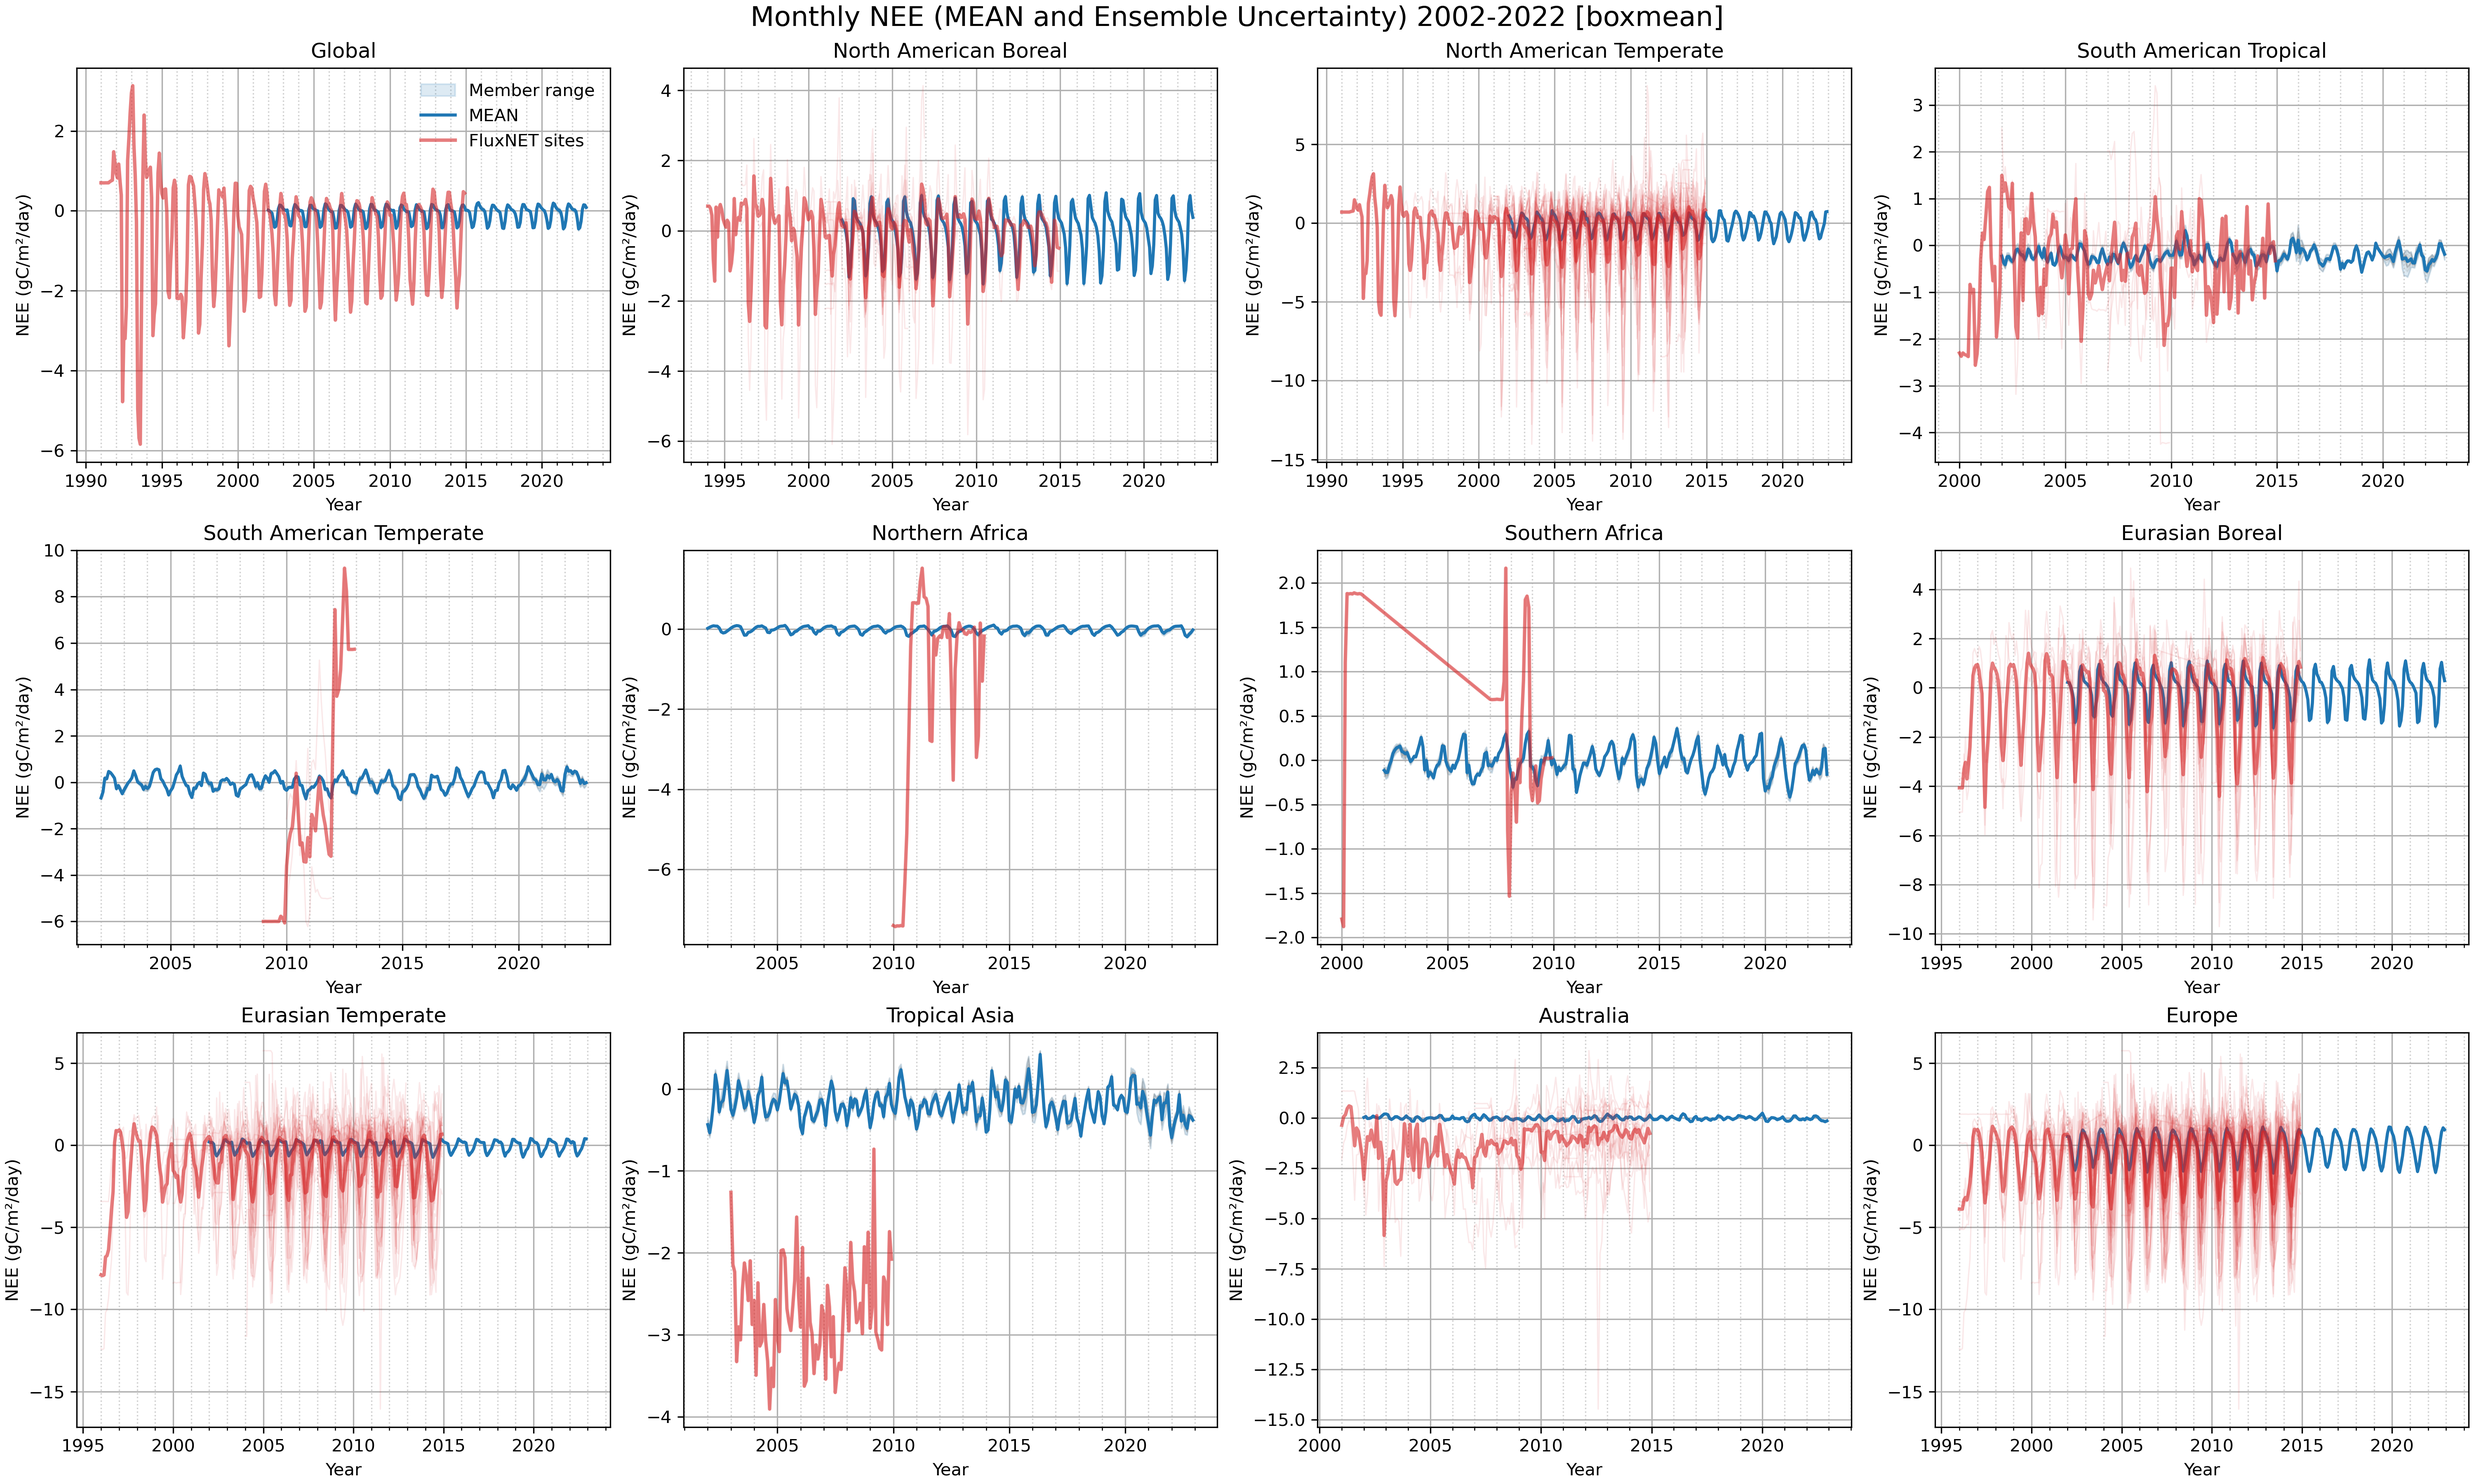
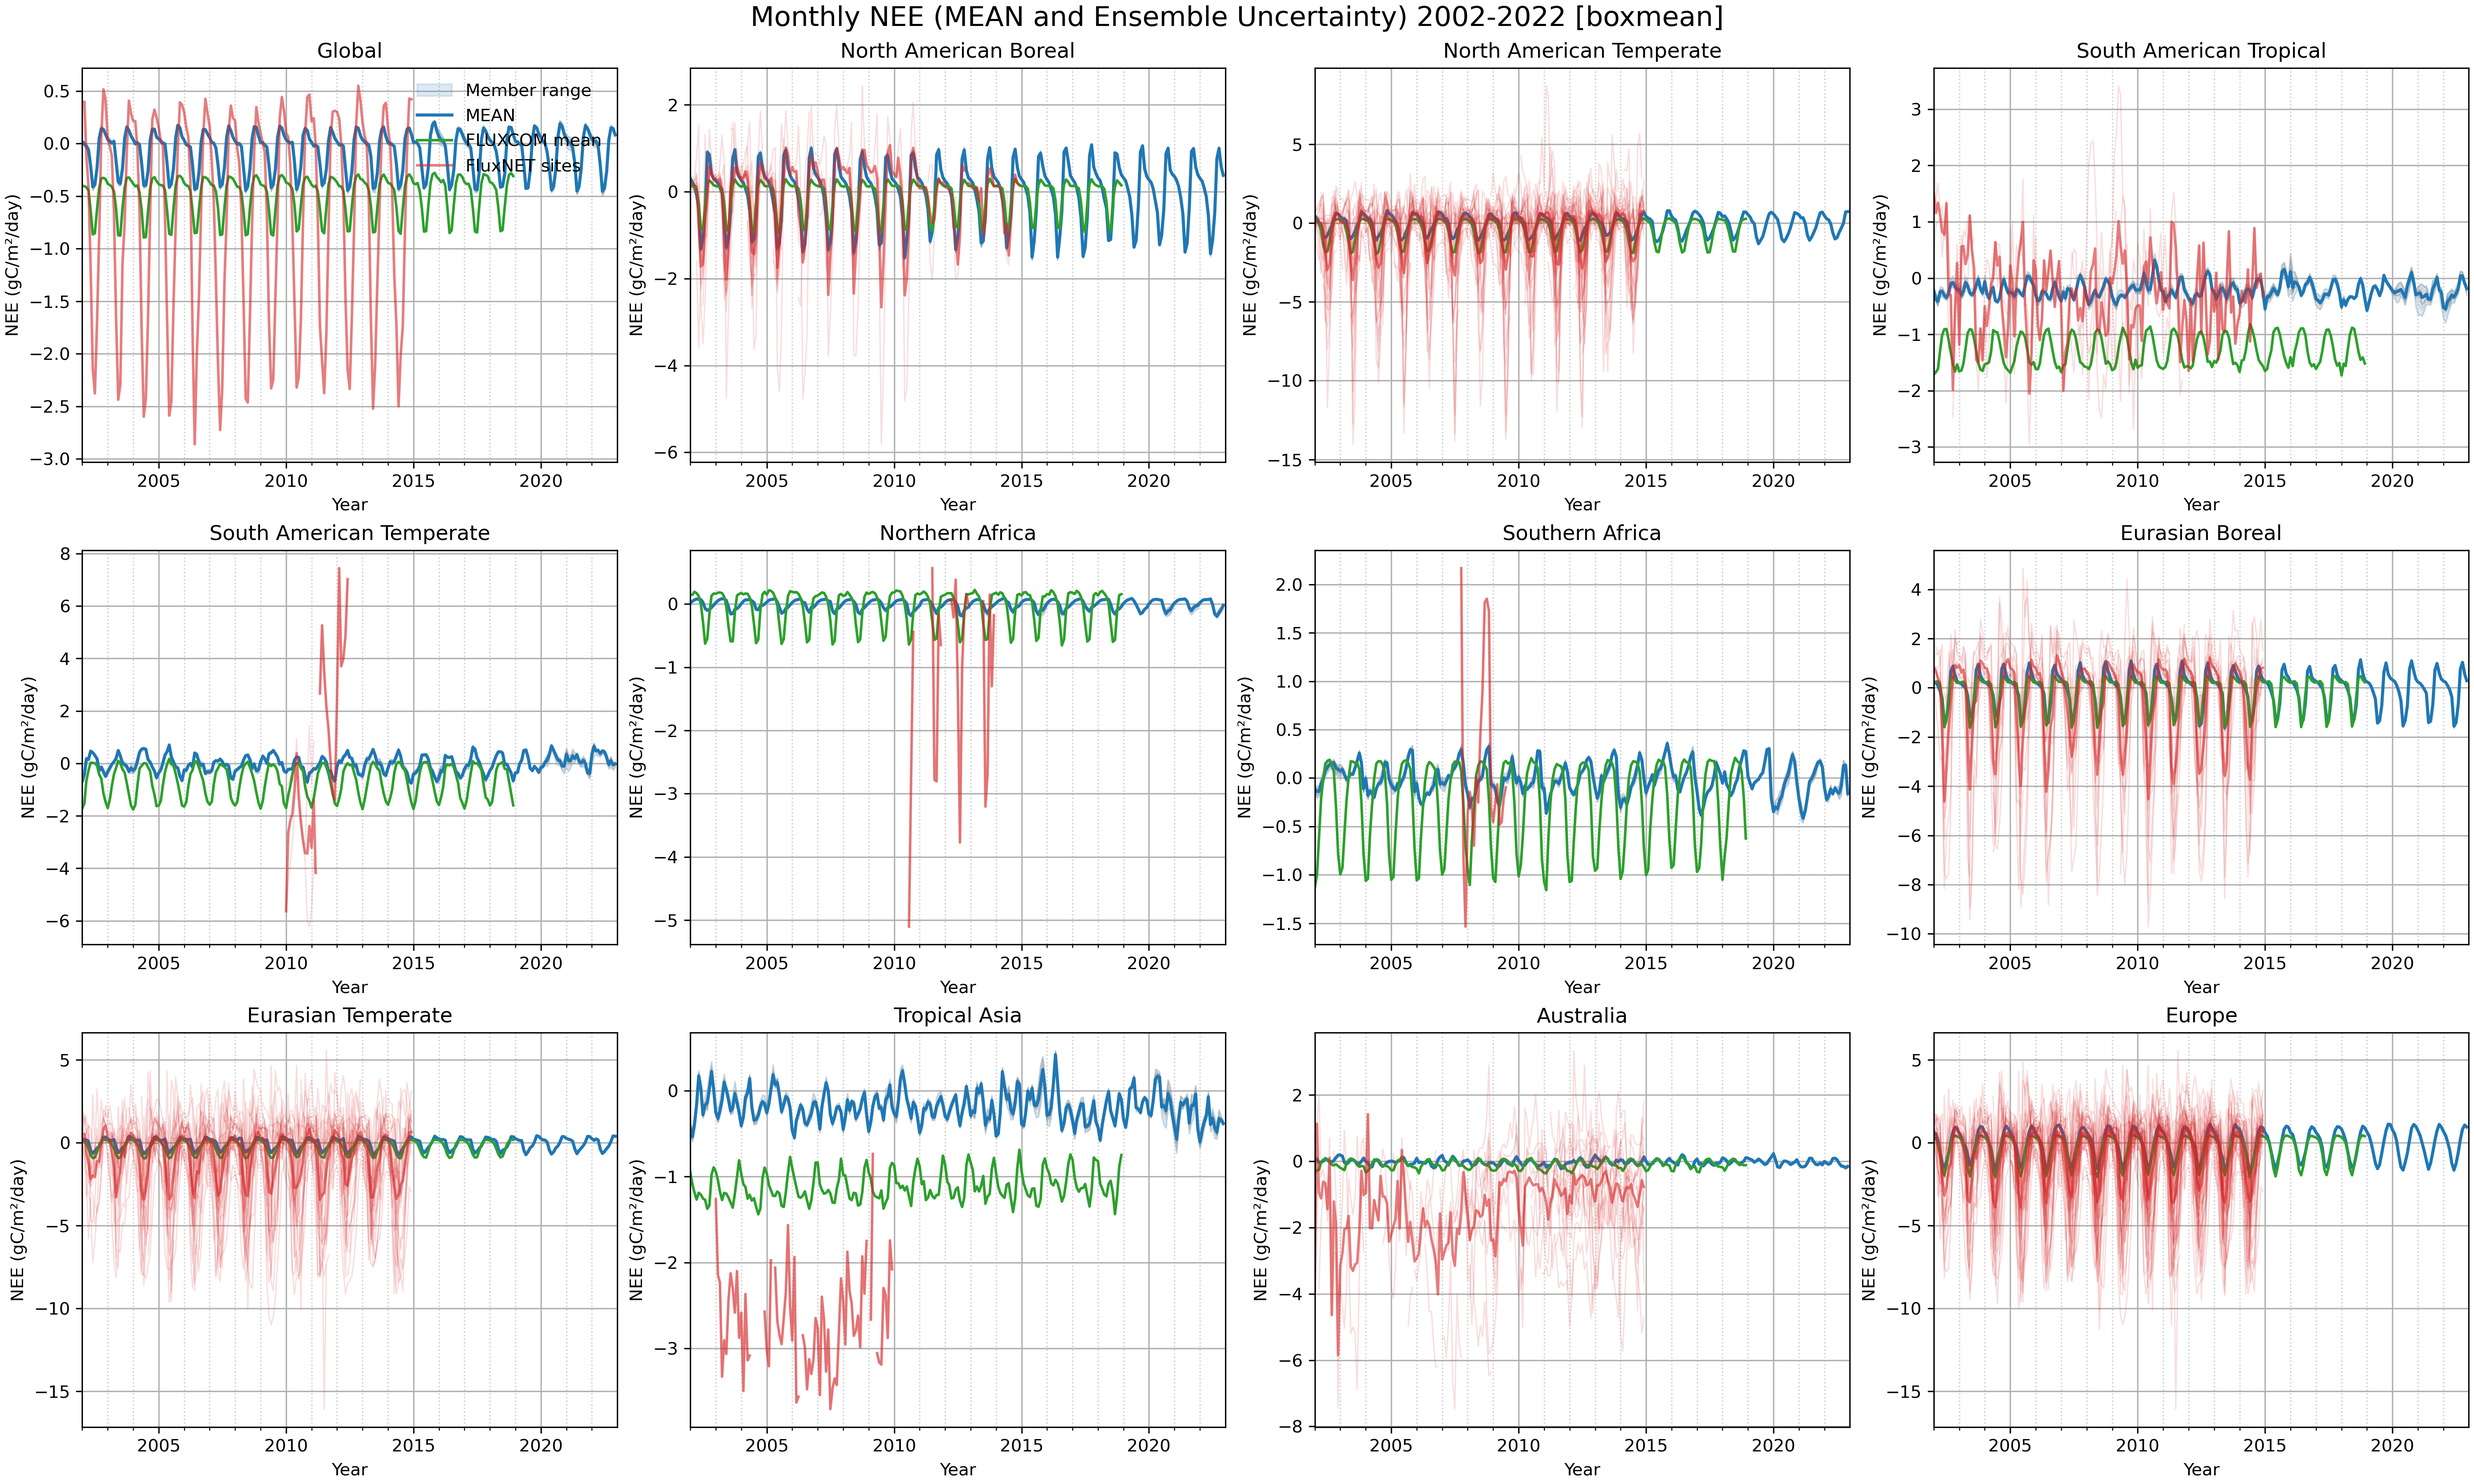
last improvements + doc

diff --git a/plot_NEE_regions.py b/plot_NEE_regions.py
@@ -15,7 +15,7 @@ import pandas as pd
 IN_DIR = "./data/out"
 OUT_DIR = "./data/figures_out"
 START_YEAR = 2002
-END_YEAR = 2003
+END_YEAR = 2022
 PLOT_MODE = "all"
 # PLOT_MODE = "single"
 # SELECTED_REGION = "Global"
@@ -28,7 +28,7 @@ COMPARE_SOURCE = "both"  # one of: none, fluxnet, fluxcom, both
 FLUXCOM_DIR = "./data/FluxComm/CarbonFluxes/RS_METEO/ensemble/ERA5/monthly"
 
 # member_ids = [f"{i:04d}" for i in range(1, 31)]  # 0001..0030
-member_ids = [f"{i:04d}" for i in range(1, 3)]  # 0001..0030
+member_ids = [f"{i:04d}" for i in range(1, 31)]  # 0001..0030
 # ----------------------------
 # Helpers
 # ----------------------------

diff --git a/README.md b/README.md
@@ -2,11 +2,11 @@
 
 Weather Generator Land evaluation
 
-This repository contains a small toolkit to compute monthly-mean NEE from daily model output, and to visualize regional NEE time series with optional FluxNET overlays.
+This repository contains a small toolkit to compute monthly-mean NEE from daily model output, and to visualize regional NEE time series with optional FluxNET site overlays and optional FLUXCOM gridded comparison.
 
 The workflow is:
 - Create monthly NEE means per ensemble member from daily NetCDF files (create_NEE_month_mean_in_days.bash)
-- Plot regional time series from those monthly means (plot_NEE_regions.py)
+- Plot regional time series from those monthly means with optional FluxNET/FLUXCOM overlays (plot_NEE_regions.py)
 - Optionally pick representative FluxNET sites and file paths per region for CSV overlays (build_fluxnet_site_map.py)
 - Optionally submit jobs on an LSF cluster (submit_script.bash)
 
@@ -15,6 +15,7 @@ The workflow is:
 - Monthly means output: ./data/out/NEE_monthmean_YYYY_MM_####.nc (or ..._mean.nc for ensemble mean, if produced)
 - Figures output: ./data/figures_out
 - FluxNET CSVs: ./data/FluxNET
+- FLUXCOM monthly files: ./data/FluxComm/CarbonFluxes/RS_METEO/ensemble/ERA5/monthly/NEE.RS_METEO.FP-NONE.MLM-ALL.METEO-ERA5.720_360.monthly.YYYY.nc
 
 
 ## About FluxNET
@@ -68,7 +69,7 @@ Notes
 ## 2) plot_NEE_regions.py
 Read monthly-mean NEE files and plot regional time series. Supports two modes:
 - all: 12 predefined regions as subplots with ensemble spread
-- single: one region full-width, with optional FluxNET CSV overlay
+- single: one region full-width, with optional FluxNET CSV overlay and/or FLUXCOM comparison
 
 Predefined regions and their bounds are baked into the script (Global, North American Boreal, North American Temperate, South American Tropical, South American Temperate, Northern Africa, Southern Africa, Eurasian Boreal, Eurasian Temperate, Tropical Asia, Australia, Europe). Each region also has a representative FluxNET site used when selecting a single nearest grid cell (spatial-agg=nearest_site).
 
@@ -88,6 +89,10 @@ Command-line arguments (defaults shown)
 - --fluxnet-timestamp-col TIMESTAMP: name of timestamp column
 - --fluxnet-value-col NEE_VUT_REF: name of the column with NEE
 - --fluxnet-timestamp-fmt %Y%m: timestamp format in the CSV
+- --compare {none,fluxnet,fluxcom,both}: control comparison overlays; none = no external overlay, fluxnet = only FluxNET sites, fluxcom = only FLUXCOM gridded, both = FluxNET + FLUXCOM
+- --fluxcom-dir ./data/FluxComm/CarbonFluxes/RS_METEO/ensemble/ERA5/monthly: folder with FLUXCOM monthly files (one per year)
+
+All overlays and the x-axis are restricted to the requested time window [START_YEAR-01-01, END_YEAR-12-31].
 
 FluxNET overlays
 - By default (when site mappings are available), all region sites are overlaid:
@@ -98,9 +103,24 @@ FluxNET overlays
 - CSV parsing uses the --fluxnet-* options; rows with -9999 are ignored
 - In "all" mode the legend is consolidated in the first subplot; the "FluxNET sites" entry is guaranteed to appear if any region includes site overlays
 
+FLUXCOM comparison
+- Reads yearly FLUXCOM files and extracts each calendar month (variable NEE; units gC m-2 d-1; missing_value -9999)
+- Uses the same --spatial-agg as the model dataset:
+  - boxmean: area-weighted mean over the region on the FLUXCOM grid
+  - nearest_center / nearest_site: nearest FLUXCOM grid cell to the target point
+- Plotted as a green line labeled "FLUXCOM mean"
+- File pattern expected per year: NEE.RS_METEO.FP-NONE.MLM-ALL.METEO-ERA5.720_360.monthly.YYYY.nc (configurable via --fluxcom-dir)
+
 Examples
 - Plot all regions with defaults
   python plot_NEE_regions.py --mode all --in-dir ./data/out --out-dir ./data/figures_out
+
+- Plot all regions comparing to FLUXCOM only (box-area mean)
+  python plot_NEE_regions.py --mode all --compare fluxcom --spatial-agg boxmean \
+                             --in-dir ./data/out --out-dir ./data/figures_out
+
+- Plot all regions comparing to both FluxNET and FLUXCOM
+  python plot_NEE_regions.py --mode all --compare both --in-dir ./data/out --out-dir ./data/figures_out
 
 - Plot a single region using nearest site grid cell and overlay a specific CSV
   python plot_NEE_regions.py --mode single --region "South American Tropical" \
@@ -187,6 +207,14 @@ Usage
 2) Plot all regions for a given period
    python plot_NEE_regions.py --mode all --start-year 2002 --end-year 2022 \
                               --in-dir ./data/out --out-dir ./data/figures_out
+
+   Compare against FLUXCOM only
+   python plot_NEE_regions.py --mode all --start-year 2002 --end-year 2022 \
+                              --compare fluxcom --in-dir ./data/out --out-dir ./data/figures_out
+
+   Compare against both FluxNET and FLUXCOM
+   python plot_NEE_regions.py --mode all --start-year 2002 --end-year 2022 \
+                              --compare both --in-dir ./data/out --out-dir ./data/figures_out
 
 3) (Optional) Build FluxNET site map JSONs for overlays
    python build_fluxnet_site_map.py --all-regions --subset MM --out-json ./data/FluxNET/site_map_all_MM.json
